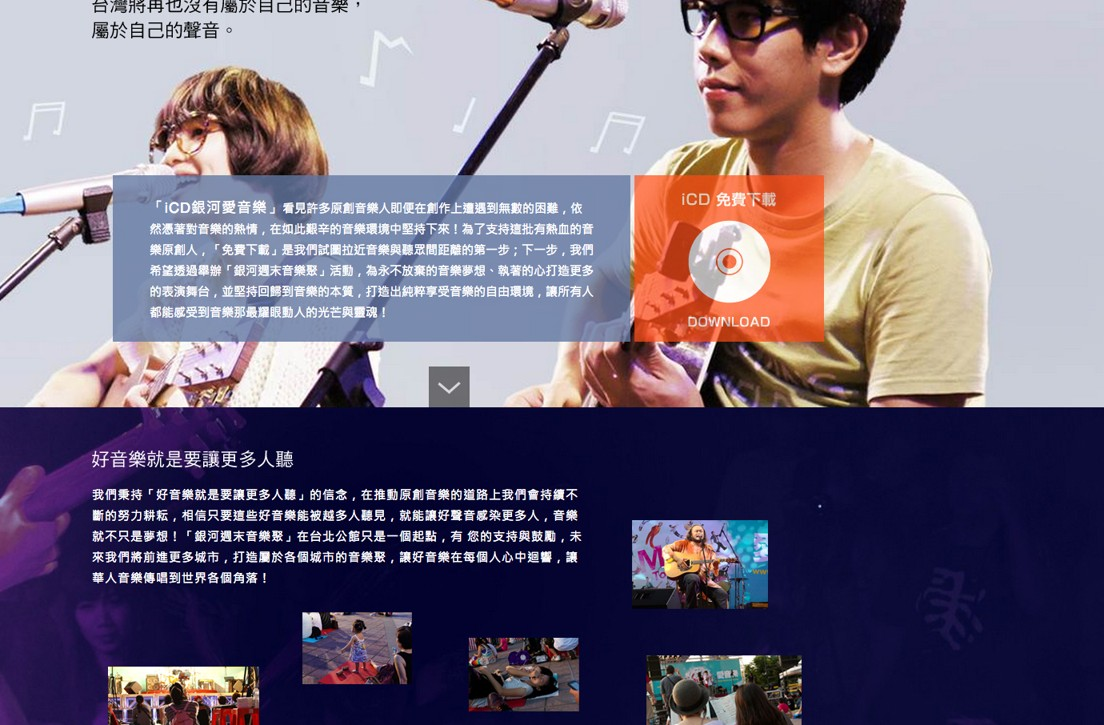
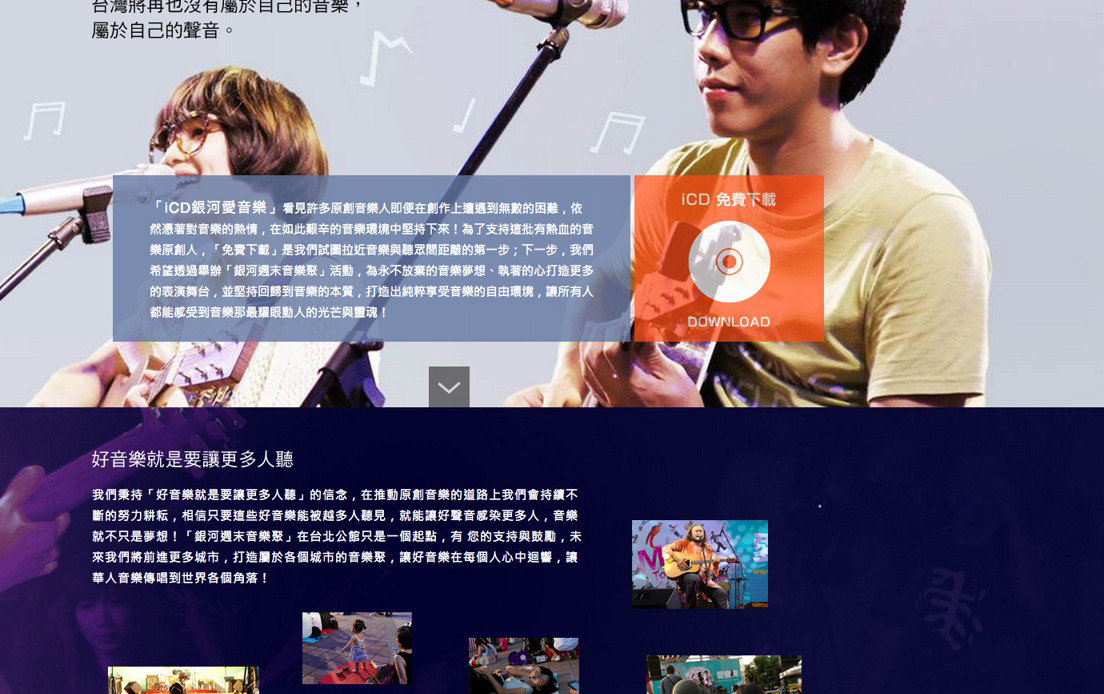
portfolio mediaquery adjust

diff --git a/css/index.css b/css/index.css
@@ -117,17 +117,26 @@ h1.mark{zoom:1;filter: alpha(opacity=40);opacity: 0.40;}
 	#about .intro,.goodat,.portfolio{margin:0 auto; width:75%;text-align:center;}
 }
 
+
+
+@media screen and (min-width: 768px) and (max-width:1000px){
+	.portfolio .item{width:50%;}
+}
+@media screen and (min-width: 1001px) and (max-width:1440px){
+	.portfolio .item{width:33%;}
+}
 @media screen and (min-width: 768px) and (max-width:1440px){
 	.full_back{width:100%;height:762px;overflow:hidden;position:relative;}
 	.full_back .visual_back,.full_back .visual_back2{width:1440px;height:762px;display:block;margin:0 auto;position:absolute;top:0;left:50%;margin-left:-720px;}
 	.goodat .item span{line-height:84px;font-size:22px;}
 	.goodat .item{margin-bottom:30px;}
-	.portfolio .item{width:50%;}
-	.portfolio .item .inner{width:87%;}
+	.portfolio .item .inner{width:92%;}
+	.portfolio{margin:0 auto; width:80%;text-align:center;}
 	
 	#about .intro,.goodat{margin:0 auto; width:75%;text-align:center;}
-	.portfolio{margin:0 auto; width:70%;text-align:center;}
 }
+
+
 
 @media screen and (min-width:1441px){
 	.full_back{width:100%;display:block;overflow:hidden;position:relative;}
